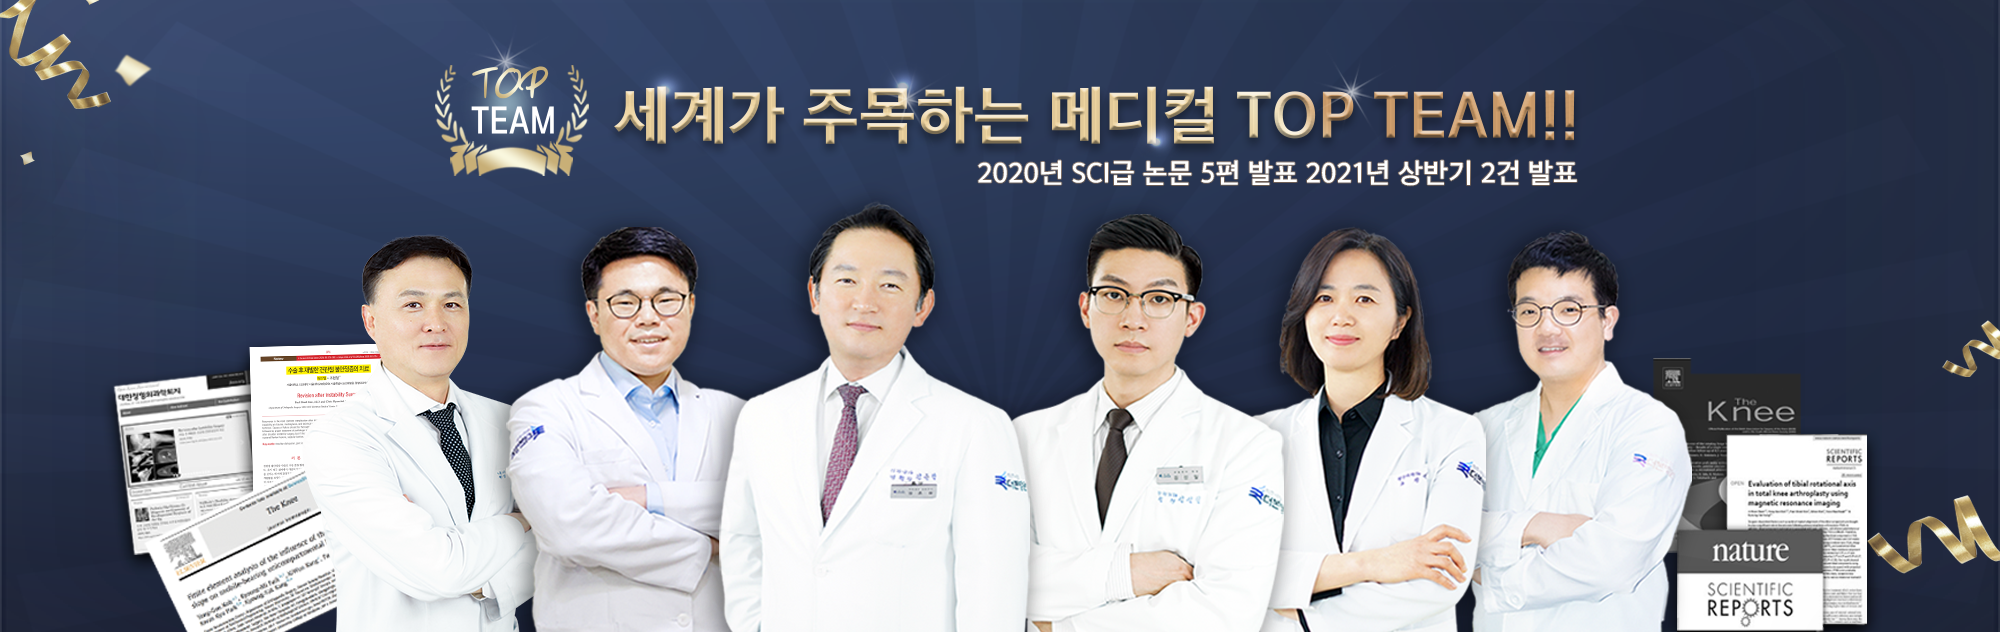
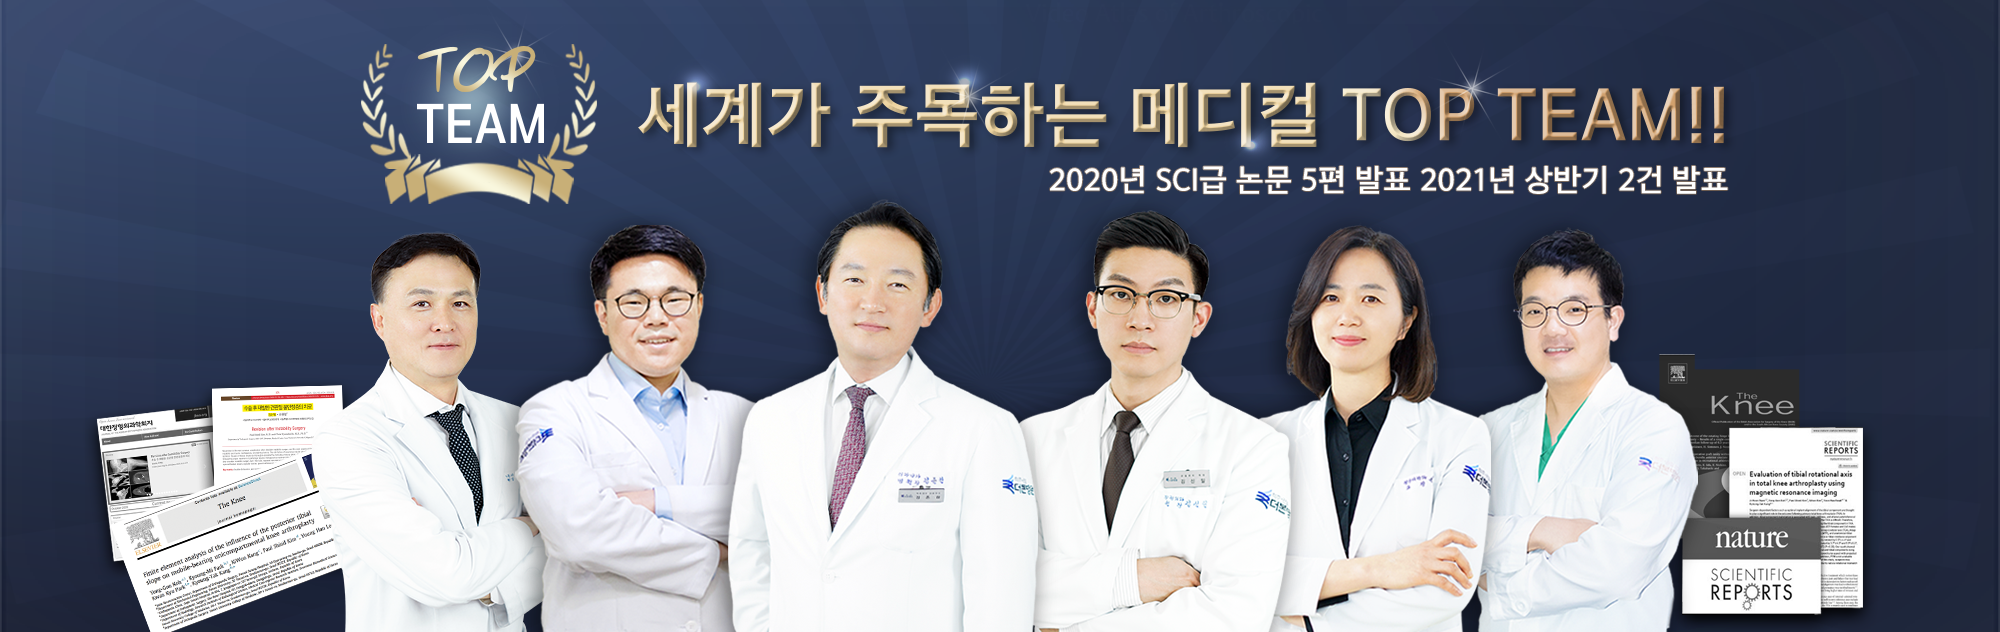
main final

diff --git a/index.html b/index.html
@@ -1981,20 +1981,20 @@ background-color:#ffffff;
 	<a name="dsp_column_5af4f80963f89"></a>
 	<span id="dsp_column_5af4f80963f89">
         <div style="height:633px;position:relative;width:2000;overflow:hidden;" onmouseover="theme_609899791512a_flag=1;" onmouseout="theme_609899791512a_flag=0;">
-            <div style="height:633px;background:url(files/main1.png);background-size:2000px;;background-position:center top;position:absolute;background-repeat:no-repeat;width:100%;display:none; " id="theme_609899791512a_0" ></div>
-            <div style="height:633px;background:url(files/main2.png);background-size:2000px;;background-position:center top;position:absolute;background-repeat:no-repeat;width:100%;display:none; " id="theme_609899791512a_1" ></div>
-            <div style="height:633px;background:url(files/main3.png);background-size:2000px;;background-position:center top;position:absolute;background-repeat:no-repeat;width:100%;display:none; " id="theme_609899791512a_2" ></div>
-			<div style="height:633px;background:url(files/main4.png);background-size:2000px;;background-position:center top;position:absolute;background-repeat:no-repeat;width:100%;display:none; " id="theme_609899791512a_3" ></div>
-			<div style="height:633px;background:url(files/main5.png);background-size:2000px;;background-position:center top;position:absolute;background-repeat:no-repeat;width:100%;display:none; " id="theme_609899791512a_4" ></div>
-			<div style="height:633px;background:url(files/main6.png);background-size:2000px;;background-position:center top;position:absolute;background-repeat:no-repeat;width:100%;display:none; " id="theme_609899791512a_5" ></div>
-			<div style="height:633px;background:url(files/main7.png);background-size:2000px;;background-position:center top;position:absolute;background-repeat:no-repeat;width:100%;display:none; " id="theme_609899791512a_6" ></div>
-			<div style="height:633px;background:url(files/main8.png);background-size:2000px;;background-position:center top;position:absolute;background-repeat:no-repeat;width:100%;display:none; " id="theme_609899791512a_7" ></div>
-			<div style="height:633px;background:url(files/main9.png);background-size:2000px;;background-position:center top;position:absolute;background-repeat:no-repeat;width:100%;display:none; " id="theme_609899791512a_8" ></div>
-			<div style="height:633px;background:url(files/main10.png);background-size:2000px;;background-position:center top;position:absolute;background-repeat:no-repeat;width:100%;display:none; " id="theme_609899791512a_9" ></div>
-			<div style="height:633px;background:url(files/main1-1.png);background-size:2000px;;background-position:center top;position:absolute;background-repeat:no-repeat;width:100%;display:none; " id="theme_609899791512a_10" ></div>
-			<div style="height:633px;background:url(files/main11.png);background-size:2000px;;background-position:center top;position:absolute;background-repeat:no-repeat;width:100%;display:none; " id="theme_609899791512a_11" ></div>
-			<div style="height:633px;background:url(files/main12.png);background-size:2000px;;background-position:center top;position:absolute;background-repeat:no-repeat;width:100%;display:none; " id="theme_609899791512a_12" ></div>
-			<div style="height:633px;background:url(files/main13.png);background-size:2000px;;background-position:center top;position:absolute;background-repeat:no-repeat;width:100%;display:none; " id="theme_609899791512a_13" ></div>
+            <div style="height:633px;background:url(files/main9.png);background-size:2000px;;background-position:center top;position:absolute;background-repeat:no-repeat;width:100%;display:none; " id="theme_609899791512a_0" ></div>
+            <div style="height:633px;background:url(files/main10-1.png);background-size:2000px;;background-position:center top;position:absolute;background-repeat:no-repeat;width:100%;display:none; " id="theme_609899791512a_1" ></div>
+            <div style="height:633px;background:url(files/main11.png);background-size:2000px;;background-position:center top;position:absolute;background-repeat:no-repeat;width:100%;display:none; " id="theme_609899791512a_2" ></div>
+			<div style="height:633px;background:url(files/main12.png);background-size:2000px;;background-position:center top;position:absolute;background-repeat:no-repeat;width:100%;display:none; " id="theme_609899791512a_3" ></div>
+			<div style="height:633px;background:url(files/main13.png);background-size:2000px;;background-position:center top;position:absolute;background-repeat:no-repeat;width:100%;display:none; " id="theme_609899791512a_4" ></div>
+			<div style="height:633px;background:url(files/main2.png);background-size:2000px;;background-position:center top;position:absolute;background-repeat:no-repeat;width:100%;display:none; " id="theme_609899791512a_5" ></div>
+			<div style="height:633px;background:url(files/main3.png);background-size:2000px;;background-position:center top;position:absolute;background-repeat:no-repeat;width:100%;display:none; " id="theme_609899791512a_6" ></div>
+			<div style="height:633px;background:url(files/main4.png);background-size:2000px;;background-position:center top;position:absolute;background-repeat:no-repeat;width:100%;display:none; " id="theme_609899791512a_7" ></div>
+			<div style="height:633px;background:url(files/main1.png);background-size:2000px;;background-position:center top;position:absolute;background-repeat:no-repeat;width:100%;display:none; " id="theme_609899791512a_8" ></div>
+			<div style="height:633px;background:url(files/main5.png);background-size:2000px;;background-position:center top;position:absolute;background-repeat:no-repeat;width:100%;display:none; " id="theme_609899791512a_9" ></div>
+			<div style="height:633px;background:url(files/main6.png);background-size:2000px;;background-position:center top;position:absolute;background-repeat:no-repeat;width:100%;display:none; " id="theme_609899791512a_10" ></div>
+			<div style="height:633px;background:url(files/main7.png);background-size:2000px;;background-position:center top;position:absolute;background-repeat:no-repeat;width:100%;display:none; " id="theme_609899791512a_11" ></div>
+			<div style="height:633px;background:url(files/main8.png);background-size:2000px;;background-position:center top;position:absolute;background-repeat:no-repeat;width:100%;display:none; " id="theme_609899791512a_12" ></div>
+			
 <div style="position:absolute;bottom:20px;width:100%;text-align:center;">
 	<img src="img/theme-btn.png" style="border:2px solid #FFFFFF;margin:3px;cursor:pointer;border-radius:50%;" height=15 onmouseover="theme_609899791512a_theme_view(0);" id="theme_609899791512a_btn_0">
 	<img src="img/theme-btn.png" style="border:2px solid #FFFFFF;margin:3px;cursor:pointer;border-radius:50%;" height=15 onmouseover="theme_609899791512a_theme_view(1);" id="theme_609899791512a_btn_1">
@@ -2008,8 +2008,7 @@ background-color:#ffffff;
 	<img src="img/theme-btn.png" style="border:2px solid #FFFFFF;margin:3px;cursor:pointer;border-radius:50%;" height=15 onmouseover="theme_609899791512a_theme_view(9);" id="theme_609899791512a_btn_9">
 	<img src="img/theme-btn.png" style="border:2px solid #FFFFFF;margin:3px;cursor:pointer;border-radius:50%;" height=15 onmouseover="theme_609899791512a_theme_view(10);" id="theme_609899791512a_btn_10">
 	<img src="img/theme-btn.png" style="border:2px solid #FFFFFF;margin:3px;cursor:pointer;border-radius:50%;" height=15 onmouseover="theme_609899791512a_theme_view(11);" id="theme_609899791512a_btn_11">
-	<img src="img/theme-btn.png" style="border:2px solid #FFFFFF;margin:3px;cursor:pointer;border-radius:50%;" height=15 onmouseover="theme_609899791512a_theme_view(12);" id="theme_609899791512a_btn_12">
-	<img src="img/theme-btn.png" style="border:2px solid #FFFFFF;margin:3px;cursor:pointer;border-radius:50%;" height=15 onmouseover="theme_609899791512a_theme_view();" id="theme_609899791512a_btn_13">
+	<img src="img/theme-btn.png" style="border:2px solid #FFFFFF;margin:3px;cursor:pointer;border-radius:50%;" height=15 onmouseover="theme_609899791512a_theme_view();" id="theme_609899791512a_btn_12">
 </div>
 <img src="files/thebone-arrow-left.png" style="position:absolute;left:50%;margin-left:-830px;top:236px;cursor:pointer;" onclick="theme_609899791512a_prev()">
 <img src="files/thebone-arrow-right.png" style="position:absolute;left:50%;margin-left:775px;top:236px;cursor:pointer;" onclick="theme_609899791512a_next()">
@@ -2020,11 +2019,11 @@ background-color:#ffffff;
 <script>
 var theme_609899791512a_flag = 0;
 var theme_609899791512a_theme_no = 0;
-var theme_609899791512a_theme_total = 14;
+var theme_609899791512a_theme_total = 13;
 function theme_609899791512a_theme_view(no){
 	theme_609899791512a_theme_no = no;
 	try{
-		for(var i=0;i<14;i++){
+		for(var i=0;i<13;i++){
 			document.getElementById('theme_609899791512a_btn_'+i).style.borderColor = '#FFFFFF';
 			$('#theme_609899791512a_'+i).fadeOut(300);
 		}
